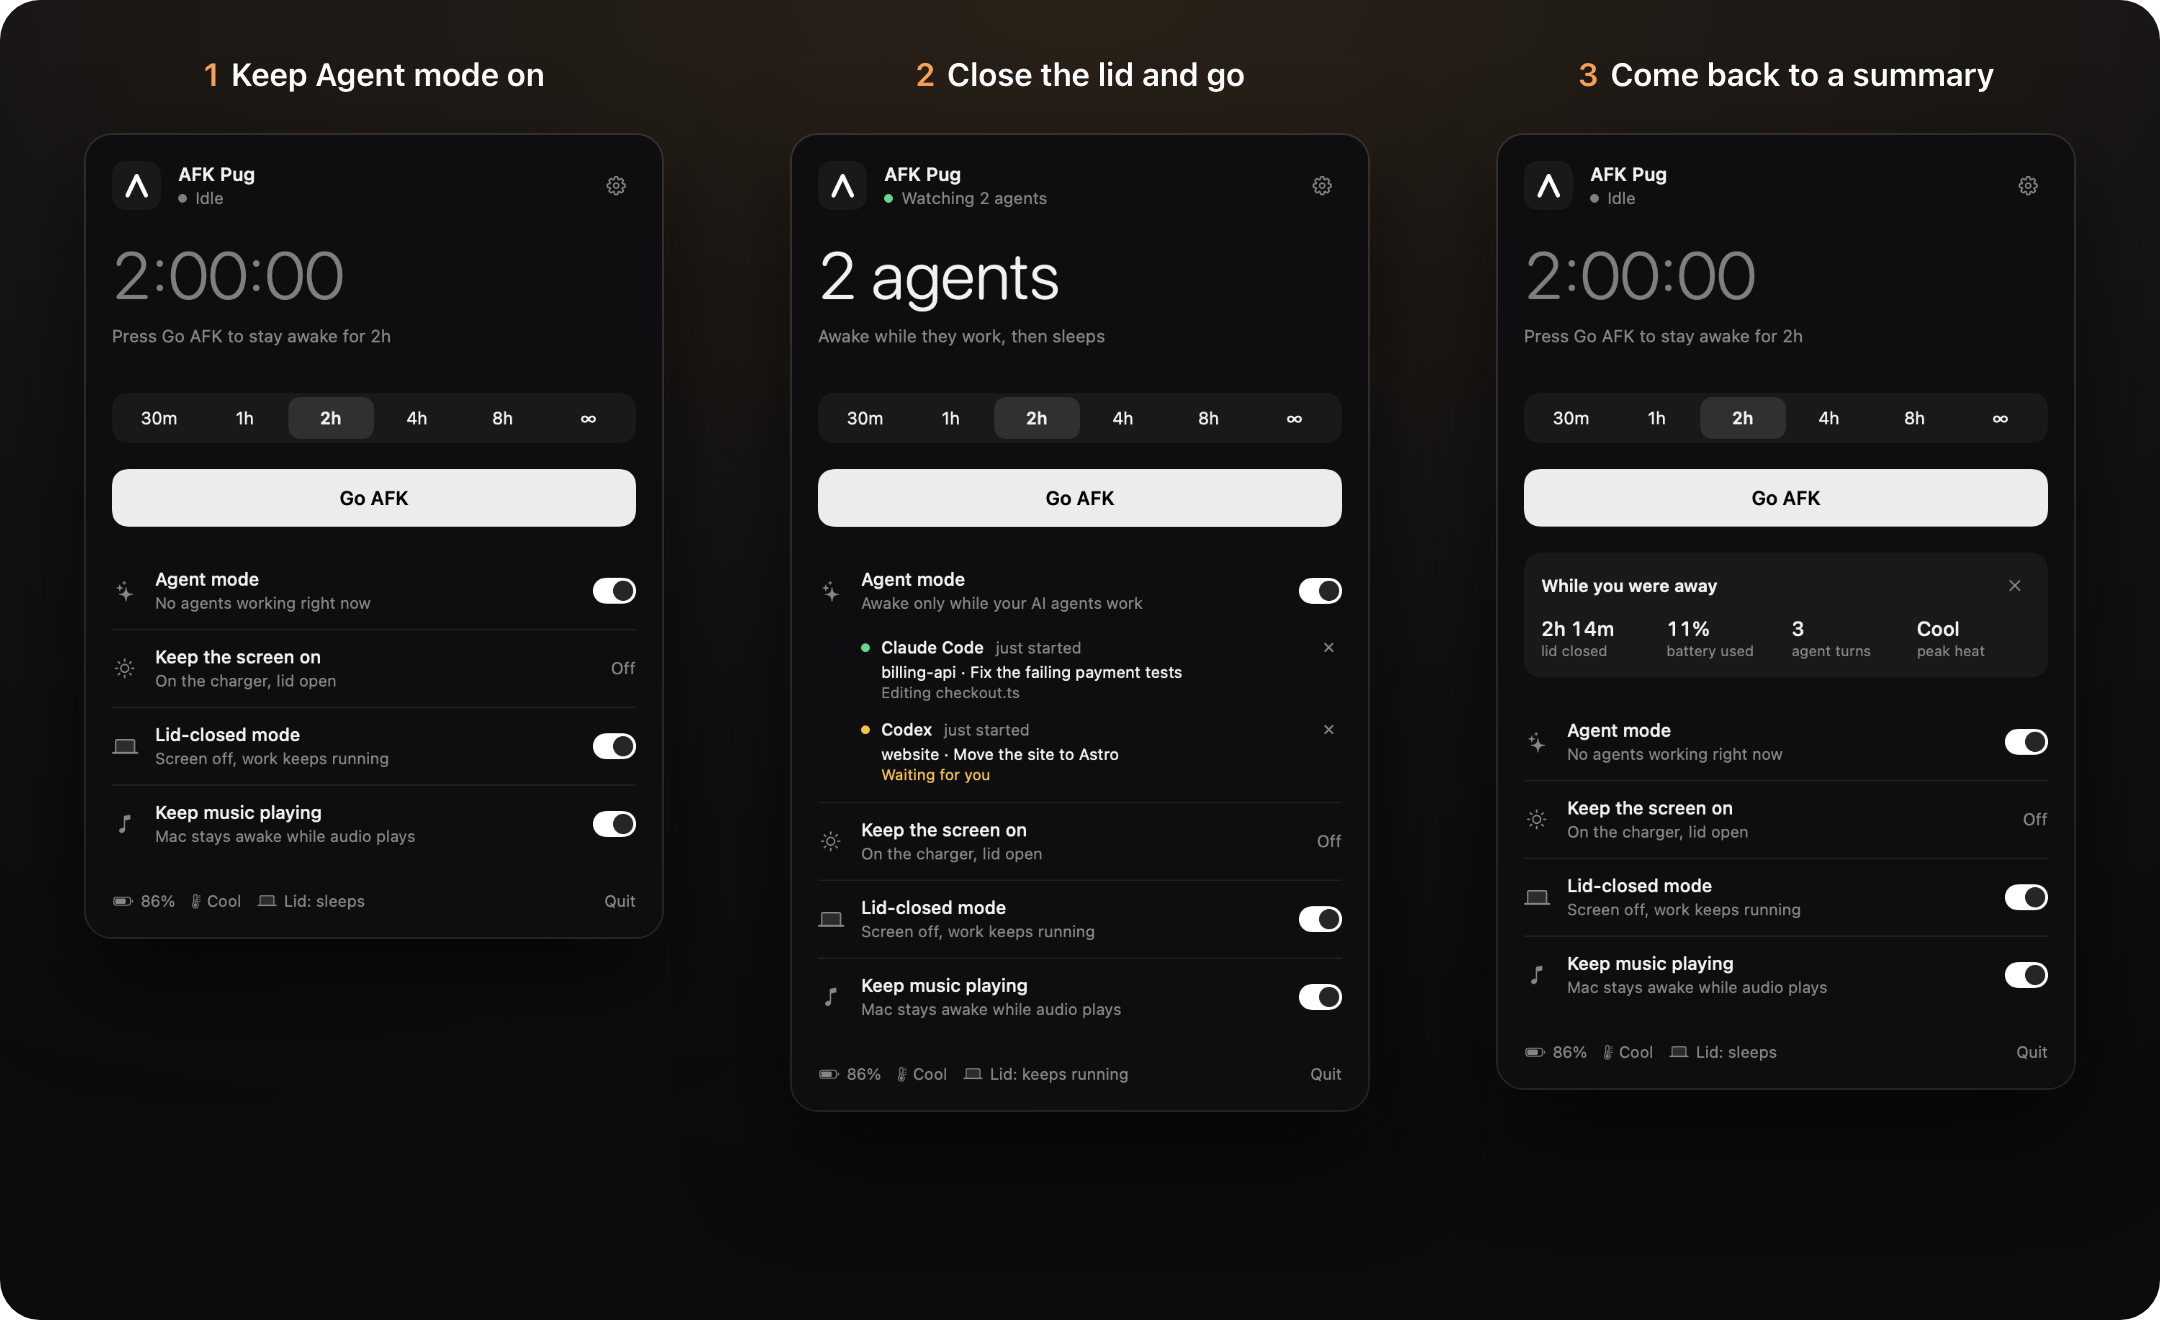
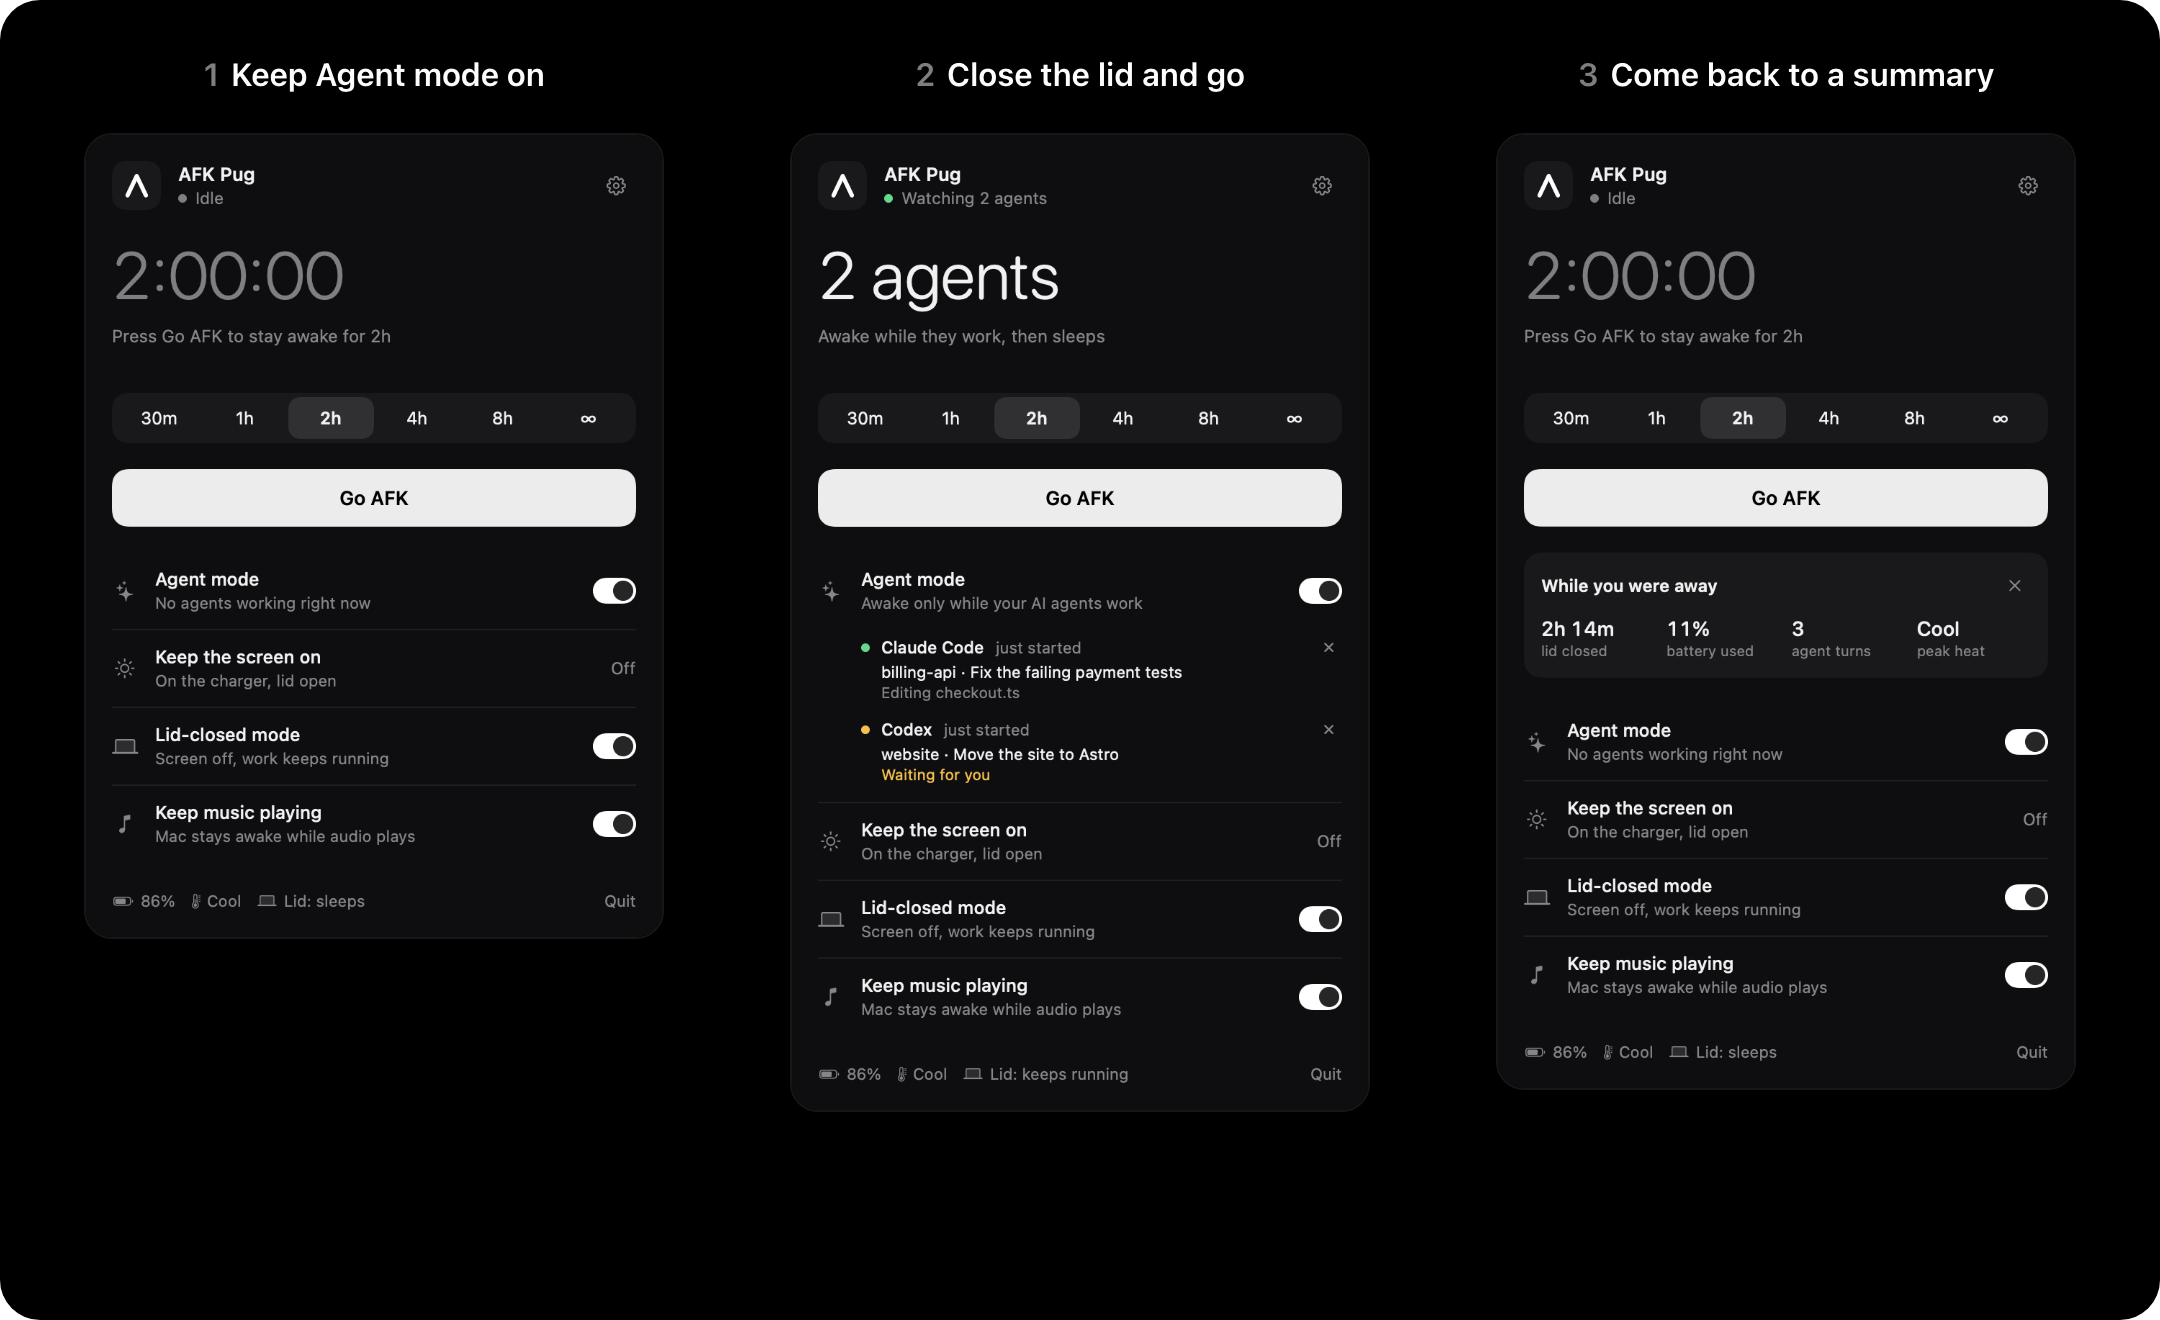
docs: give the READMEs a black and white look
Badges, the hero image and the guide's call-outs now match the app's default colors.

Changed region(s): [[0.0, 0.0, 1.0, 0.2795]]

diff --git a/README.th.md b/README.th.md
@@ -9,15 +9,15 @@
 </p>
 
 <p align="center">
-  <a href="https://github.com/Pug-03/AFK_Pug/releases/latest"><img alt="ดาวน์โหลดสำหรับ Mac" src="https://img.shields.io/badge/ดาวน์โหลด-สำหรับ%20Mac-F9A15A?style=for-the-badge&logo=apple&logoColor=white"></a>
+  <a href="https://github.com/Pug-03/AFK_Pug/releases/latest"><img alt="ดาวน์โหลดสำหรับ Mac" src="https://img.shields.io/badge/ดาวน์โหลด-สำหรับ%20Mac-FFFFFF?style=for-the-badge&logo=apple&logoColor=white&labelColor=000000"></a>
 </p>
 
 <p align="center">
   <a href="https://github.com/Pug-03/AFK_Pug/actions/workflows/ci.yml"><img alt="CI" src="https://github.com/Pug-03/AFK_Pug/actions/workflows/ci.yml/badge.svg"></a>
-  <img alt="macOS 14+" src="https://img.shields.io/badge/macOS-14%2B-111111?logo=apple&logoColor=white">
-  <img alt="Apple Silicon" src="https://img.shields.io/badge/Apple%20Silicon-M1%2B-111111">
-  <img alt="MIT" src="https://img.shields.io/badge/license-MIT-F9A15A">
-  <img alt="ไทยและอังกฤษ" src="https://img.shields.io/badge/lang-ไทย%20%C2%B7%20English-F9A15A">
+  <img alt="macOS 14+" src="https://img.shields.io/badge/macOS-14%2B-FFFFFF?logo=apple&logoColor=white&labelColor=000000">
+  <img alt="Apple Silicon" src="https://img.shields.io/badge/Apple%20Silicon-M1%2B-FFFFFF?labelColor=000000">
+  <img alt="MIT" src="https://img.shields.io/badge/license-MIT-FFFFFF?labelColor=000000">
+  <img alt="ไทยและอังกฤษ" src="https://img.shields.io/badge/lang-ไทย%20%C2%B7%20English-FFFFFF?labelColor=000000">
 </p>
 
 <p align="center">

diff --git a/README.md b/README.md
@@ -9,15 +9,15 @@
 </p>
 
 <p align="center">
-  <a href="https://github.com/Pug-03/AFK_Pug/releases/latest"><img alt="Download for Mac" src="https://img.shields.io/badge/Download-for%20Mac-F9A15A?style=for-the-badge&logo=apple&logoColor=white"></a>
+  <a href="https://github.com/Pug-03/AFK_Pug/releases/latest"><img alt="Download for Mac" src="https://img.shields.io/badge/Download-for%20Mac-FFFFFF?style=for-the-badge&logo=apple&logoColor=white&labelColor=000000"></a>
 </p>
 
 <p align="center">
   <a href="https://github.com/Pug-03/AFK_Pug/actions/workflows/ci.yml"><img alt="CI" src="https://github.com/Pug-03/AFK_Pug/actions/workflows/ci.yml/badge.svg"></a>
-  <img alt="macOS 14+" src="https://img.shields.io/badge/macOS-14%2B-111111?logo=apple&logoColor=white">
-  <img alt="Apple Silicon" src="https://img.shields.io/badge/Apple%20Silicon-M1%2B-111111">
-  <img alt="MIT" src="https://img.shields.io/badge/license-MIT-F9A15A">
-  <img alt="Thai and English" src="https://img.shields.io/badge/lang-ไทย%20%C2%B7%20English-F9A15A">
+  <img alt="macOS 14+" src="https://img.shields.io/badge/macOS-14%2B-FFFFFF?logo=apple&logoColor=white&labelColor=000000">
+  <img alt="Apple Silicon" src="https://img.shields.io/badge/Apple%20Silicon-M1%2B-FFFFFF?labelColor=000000">
+  <img alt="MIT" src="https://img.shields.io/badge/license-MIT-FFFFFF?labelColor=000000">
+  <img alt="Thai and English" src="https://img.shields.io/badge/lang-ไทย%20%C2%B7%20English-FFFFFF?labelColor=000000">
 </p>
 
 <p align="center">
